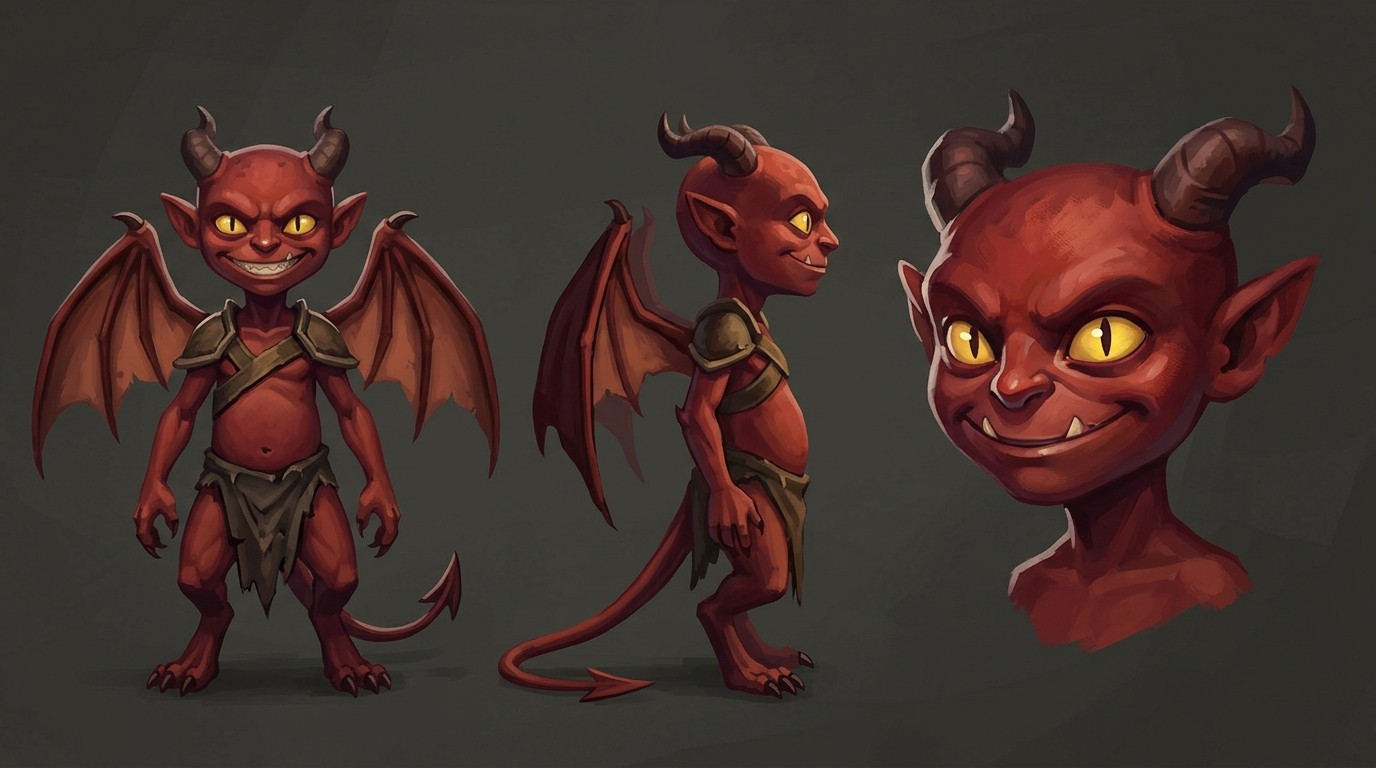
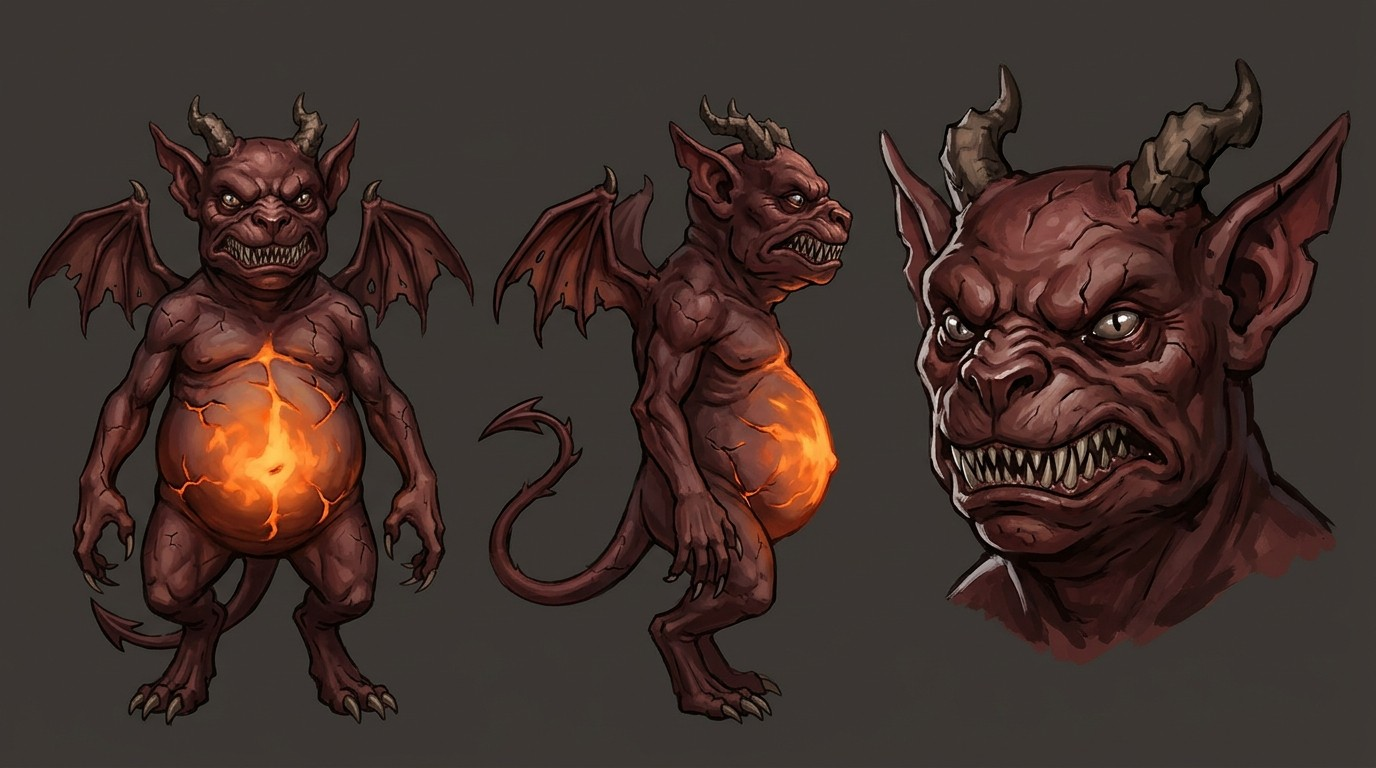
Chronicle level 11: Silas uses his level 1 werewolf painting as reference; imps repainted nastier with glowing bellies that burst
Claude-Session: https://claude.ai/code/session_01ATYH57jnXnDsQfoAHnRMyx

diff --git a/chronicle/painted/make/11.py b/chronicle/painted/make/11.py
@@ -47,7 +47,7 @@ S_=[
 (89.0,'cut',[A],['smoke','embers'],"Arthas charging out of the smoke, bronze-hilted sword raised, eye slits burning",{'flicker':0.4}),
 (95.1,'cut',[L],['smoke','sparks'],"Wide: "+LU+"standing tall in the parting smoke, arm raised with purple fire, laughing, wizards falling back",{'flicker':0.5}),
 (99.5,'fade',[W],['embers','smoke'],"Scarlet Wizards throwing fire blindly into the smoke from the balconies, red flames streaking through the hall",{'flicker':0.6}),
-(105.5,'cut',[I],['embers'],"Small red-skinned winged imps scuttling across the stone floor out of the dark, claws and teeth, toward the smoke",{'flicker':0.4}),
+(105.5,'cut',[I],['embers'],"Imps with fat glowing bellies scuttling across the stone floor out of the dark, claws and teeth, toward the smoke",{'flicker':0.4}),
 (112.5,'flash',[A,C],['dust'],"The stone floor giving way under Arthas and Cedric, trapdoor boards splintering, both falling, "+GR,{'shake':0.5}),
 (116.6,'cut',[A,C],['dust','sparks'],"Inside "+GR+"Arthas hurling Cedric up and out of the pit with both arms, sparks from the rollers",{'shake':0.3}),
 (120.3,'cut',[A,W],['sparks','dust'],"Looking down into "+GR+"Arthas trapped below between the turning rollers, Scarlet Wizards at the rim above shooting fire down at him",{'flicker':0.5}),
@@ -60,7 +60,7 @@ S_=[
 (142.4,'flash',[L,W],['ash','smoke'],"FESTERING BLAST: a wave of black and sickly yellow-green necrotic energy bursting from the scroll in Lucien's hands, rolling across the hall at a Scarlet Wizard",{'shake':0.7,'grade':'green'}),
 (145.5,'cut',[W],['ash'],"A Scarlet Wizard staggering in the rotting green-black wave, his red robes withering, still on his feet",{'grade':'green','shake':0.3}),
 (150.6,'cut',[C],['ash','dust'],"Cedric dropping out of the air where a spell had held him floating, landing in a crouch, free, furious",{}),
-(156.1,'cut',[C,I],['dust','sparks'],"Cedric whirling his staff through a swarm of imps, knocking them flying",{'shake':0.3}),
+(156.1,'cut',[C,I],['dust','sparks'],"Cedric whirling his staff through a swarm of imps, one imp bursting in a ball of fire from its glowing belly",{'shake':0.3}),
 (162.0,'cut',[A,W],['embers','sparks'],"Arthas fighting two Scarlet Wizards at once, fire breaking on his steel, sword swinging",{'flicker':0.5}),
 (168.0,'fade',[L,A,C,W],['smoke','embers'],"Wide shot of the battle in the underground hall: smoke, fire, imps, wizards on the balconies, the brothers in the middle, the grinder pit glowing",{'flicker':0.5}),
 (174.6,'flash',[A,W],['snow'],"A cone of freezing cold blasting from a wizard's hands into Arthas, frost covering his armour, he falls",{'grade':'cold','shake':0.5}),
@@ -105,8 +105,8 @@ assert [x for x in shots if x['id']=='s17'][0]['scene'].startswith('The three br
 cast={'lucien':L12['cast']['lucien'],'arthas':L12['cast']['arthas'],'cedric':L12['cast']['cedric'],'wizard':L12['cast']['wizard'],
  'duncastle':L12['cast']['duncastle'],'severin':L6['cast']['severin'],'valerys':L6['cast']['valerys'],'baphomet':L6['cast']['baphomet'],
  'silas':L1['cast']['silas'],
- 'wolfsilas':"Silas half-turned werewolf: the lean dock smuggler more wolf than man, a wolf snout and fangs breaking through his face, coarse grey fur over his arms and neck, clawed hands, hunched, his drab grey-olive patched coat and rope belt in tatters, sad human eyes still there",
- 'imp':"an imp: a small red-skinned devil the size of a cat, bat wings, little horns, a barbed tail, clawed hands and feet, yellow eyes, sharp grin"}
+ 'wolfsilas':"Silas the werewolf, exactly as in the reference painting but further gone, more wolf than man: the lean dock smuggler with a full wolf snout and fangs, coarse dark brown fur over his face, arms and back, wild glowing yellow eyes, pointed ears, clawed hands, hunched, his drab grey-olive patched coat and rope belt torn to rags; frightening, not comical",
+ 'imp':"an imp: a nasty little fiend the size of a dog, dark red leathery skin, small torn bat wings, short horns, a barbed tail, long claws, needle teeth, and a fat swollen belly that glows from inside with orange fire through cracks in the skin, about to burst; menacing and grotesque, not cute, no clothes"}
 board={"id":"hunger-grows","live":False,'cover':'s17','style':L12['style'],'cast':cast,'shots':shots}
 head_={k:v for k,v in board.items() if k!='shots'}
 out=json.dumps(head_,ensure_ascii=False,indent=2)[:-2]+',\n  "shots": [\n'+',\n'.join('    '+json.dumps(s,ensure_ascii=False) for s in shots)+'\n  ]\n}\n'
